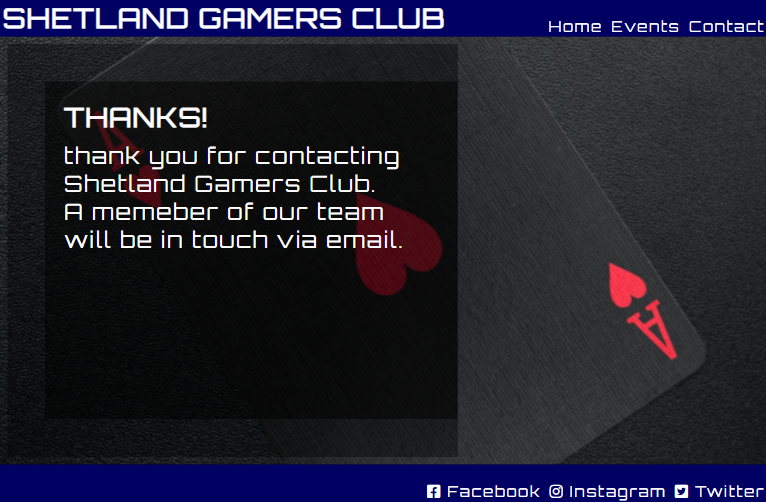
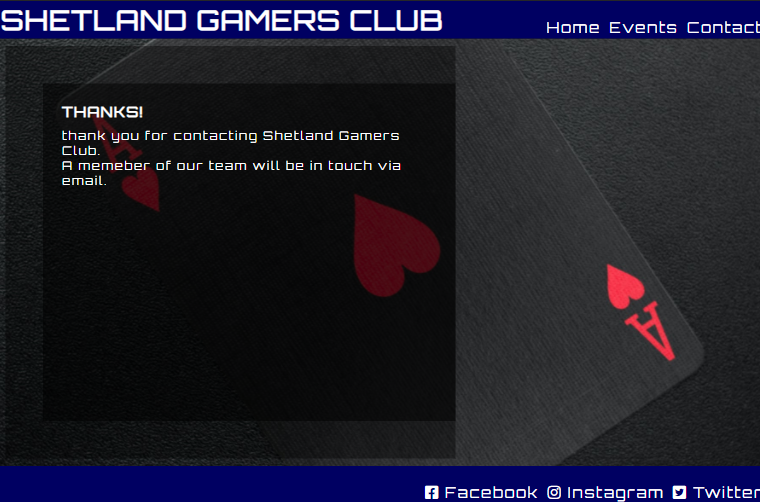
complete draft README

diff --git a/assets/css/styles.css b/assets/css/styles.css
@@ -222,7 +222,7 @@ textarea {
 #contact-response {
     height: 400px;
     background-color: rgba(0, 0, 0, 0.4);
-    font-size: 125%;
+    font-size: 100%;
 }
 
 /* responsive design extra small devices - max-width 374px */

diff --git a/README.md b/README.md
@@ -1,11 +1,11 @@
-# Gamers Club
+# Shetland Gamers Club
 
-The Gamers Club website is for Shetland based adults, over 18, looking for a local gaming club. 
+The Shetland Gamers Club website is for Shetland based adults, over 18, looking for a local gaming club. 
 The Gaming Club offers a social, challenging and fun environment for people looking to team up or compete with others.
 
-The website users will be able to find out information about the club, events and contact the club. This site is targated at adults in Shetland who are looking to expand their gaming circle, learn knew skills and help others advance their abilities. 
+The website users will be able to find out information about the club, events and contact the club. This site is targated at adults in Shetland who are looking to expand their gaming circle, learn new skills and help others advance their abilities. 
 
-<!-- add screenshot of homepage -->
+![am-i-responsive-homepage-screenshot](/screenshots/am-i-responsive-homepage.png)
 
 ## Features
 
@@ -14,7 +14,7 @@ The website users will be able to find out information about the club, events an
 - The page header shows the club logo, SHETLAND GAMERS CLUB, on the left which links to the top of the page.
 - The site navigaion, HOME / EVENTS / CONTACT, are also in included on the right hand side of the header.
     - On small to medium devices the navigation elements move under the club logo.
-- All text in the header is in white capital letters that contrasts with the navy background to make it stand out.
+- All text in the header is white which contrasts with the navy background to make it stand out.
 - The header clearly shows the sections and pages of the site that the users can easily navigate to. 
 - The same header is included on all pages in the site. 
 
@@ -78,16 +78,22 @@ Small to Medium devices<br>
 
 ### Contact
 
-- The contact page is made up of an image and a form users can use to contact the club.
+- The contact page contains a form which allows users to easil contact the club.
+- When the form is submitted the user is taken to a thank you message which informs them that someone will respond via email. 
 - There is an image of a black and red ace card behind the form.
     - On small to medium devices the image changes to 4 black, red and white ace cards.
-- When the form is submitted the user is taken to a thank you message which informs them that someone will respond via email. 
 
-Large devices<br>
+Large devices - Contact form<br>
 ![contact-screenshot](/screenshots/contact.png)
 
-Small to Medium devices<br>
+Large devices - Contact response<br>
+![contact-response-screenshot](/screenshots/contact-response.png)
+
+Small to Medium devices - Contact form<br>
 ![small-medium-contact-screenshot](/screenshots/sm-contact.png)
+
+Small to Medium devices - Contact form<br>
+![small-medium-contact-response-screenshot](/screenshots/sm-contact-response.png)
 
 ## Testing
 
@@ -103,15 +109,27 @@ No bugs
 
 ### Validator Testing
 
-<!-- html, css, accessibility, results screen shots-->
+- HTML - No errors returned when passing through the W3C HTML Validator.
+
+- CSS - No errors returned when passing throught the W3C CSS Validator (Jigsaw).
+
+- Accessibility
+    - The font used is easily readable, contrasts with backgrounds and is accessible
+    - This has been tested using Lighthouse in devtools. 
+
+![lighthouse-screenshot](/screenshots/lighthouse.png)
 
 ## Deployment
 
-<!-- Deloyed to Github pages - explain how and include link to site -->
+This site was deployed to GitHub pages by following the below steps:
+- In the GitHub repository navigate to settings
+- Select the Pages tab from the menu
+- Select the main branch from the source section drop down
+- Click Save to generate a link to the compeleted website
+
+Link to deployed website - [Shetland Gamers Club](https://aemacbeath.github.io/gaming-club/)
 
 ## Credits
-
-### Content
 
 - The icons used in the footer are from https://fontawesome.com/v4.7/
 - All images taken from https://www.pexels.com/
